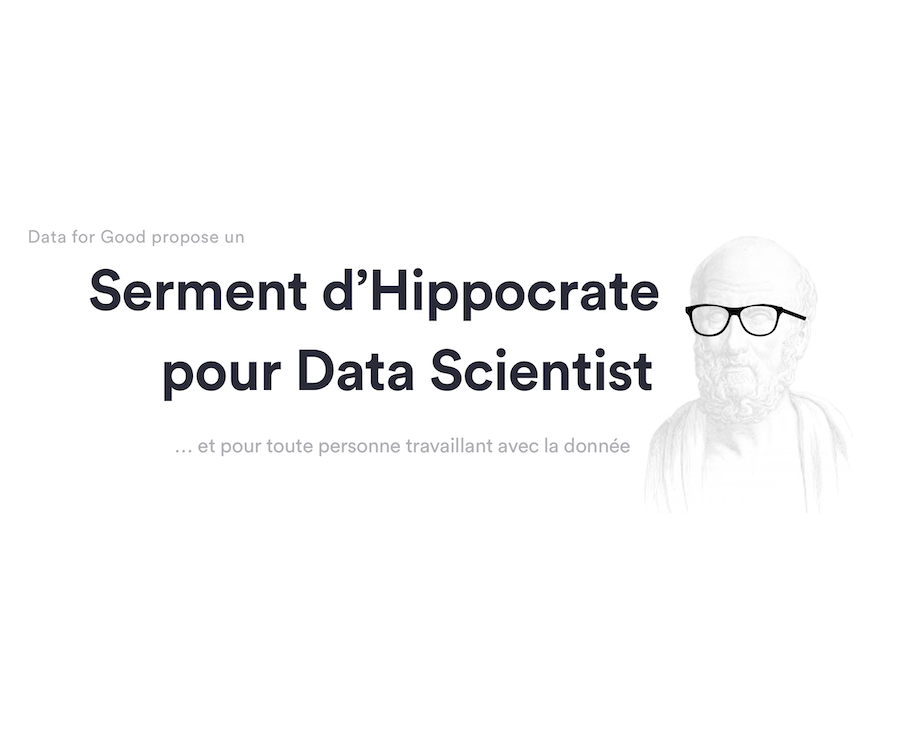
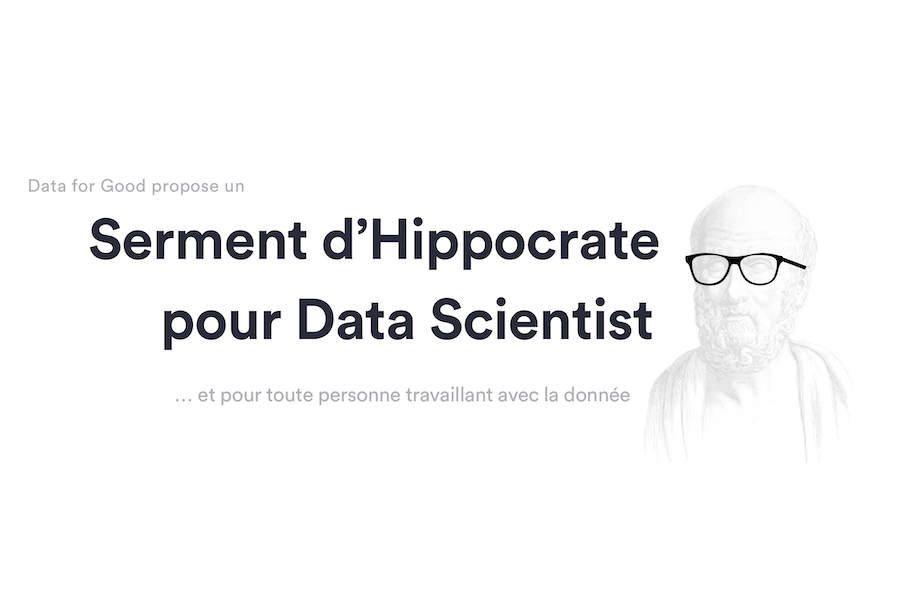
Fix various typos and wrong img formats

diff --git a/_members/jeremie-balletbaz.md b/_members/jeremie-balletbaz.md
@@ -1,7 +1,9 @@
+---
 fullname: Jérémie Ballet-Baz
 twitter: JeremieBB
 github: JeremieBB
 role: Data Scientist
 avatar: jeremie-balletbaz.JPG
 projects:
-   - 4_Databox
+   - 4_databox
+---

diff --git a/_members/olivier-nguyen_quoc.md b/_members/olivier-nguyen_quoc.md
@@ -6,5 +6,5 @@ github: oliviernguyenquoc
 role: Data Scientist
 avatar: olivier-nguyen_quoc.jpg
 projects:
-   - 4_data_manifesto
+   - 4_serment-hippocrate
 ---

diff --git a/_members/maxime_lhoumeau.md b/_members/maxime_lhoumeau.md
@@ -6,5 +6,5 @@ github: Makitsu
 role: Software Engineer
 avatar: maxime-lhoumeau.jpg
 projects:
-   - openelectoralmap
+   - 4_redecoupage-citoyen
 ---

diff --git a/_members/adnene-trojette.md b/_members/adnene-trojette.md
@@ -8,5 +8,5 @@ avatar: adnene-trojette.jpg
 projects:
    - 3_data4tunisia
    - 4_birrasmi
-   - 4_Databox
+   - 4_databox
 ---
